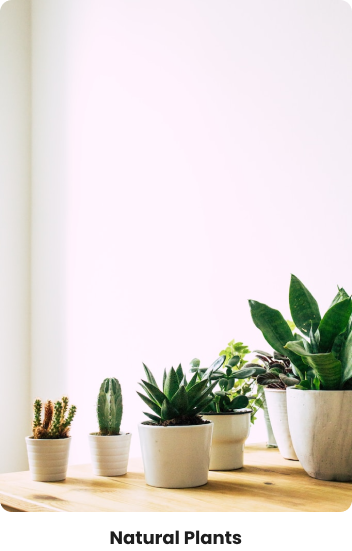
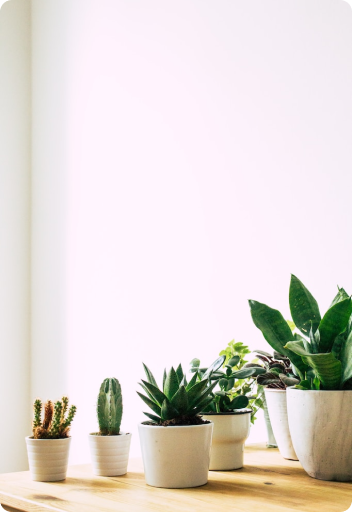
second commit

Changed region(s): [[0.0, 0.5, 1.0, 1.0]]

diff --git a/style.css b/style.css
@@ -336,7 +336,9 @@ p {
   color: var(--light-font);
 }
 
-#round-1,#round-2,#round-3 {
+#round-1,
+#round-2,
+#round-3 {
   background-color: var(--primary);
   width: 96px;
   height: 96px;
@@ -349,7 +351,6 @@ p {
   position: absolute;
   top: 28%;
   left: 28%;
-
 }
 .aboutUs-card #round-2::before {
   content: url(img/box-vector.svg);
@@ -362,4 +363,94 @@ p {
   position: absolute;
   top: 28%;
   left: 28%;
+}
+/* Categories */
+.categories {
+  display: flex;
+  flex-direction: column;
+  align-items: center;
+}
+.categories .title {
+  display: flex;
+  flex-direction: column;
+  align-items: center;
+  gap: 12px;
+}
+.categories .title p:first-child {
+  width: 182px;
+  height: 48px;
+  font-family: "Poppins";
+  font-weight: 700;
+  font-size: 32px;
+  color: var(--dark);
+}
+.categories .title p:last-child {
+  font-family: "Poppins";
+  font-style: normal;
+  font-weight: 500;
+  font-size: 18px;
+  line-height: 27px;
+  color: var(--light-font);
+}
+.images {
+  margin-top: 96px;
+  height: 841px;
+  background-color: var(--primary);
+  width: 100vw;
+}
+.image-cards {
+  display: flex;
+  justify-content: center;
+  gap: 96px;
+  padding-top: 48px;
+}
+.image-card {
+  display: flex;
+  flex-direction: column;
+  gap: 12px;
+}
+.image-card p {
+  font-family: "Poppins";
+  font-weight: 700;
+  font-size: 18px;
+  color: var(--dark);
+  text-align: center;
+}
+.categories .description {
+  font-family: "Poppins";
+  font-weight: 500;
+  font-size: 18px;
+  text-align: center;
+  color: var(--light-font);
+  padding-top: 12px;
+  padding-bottom: 24px;
+  width: 352px;
+  margin: 0 auto;
+}
+.categories .btn.white {
+  display: flex;
+  margin: 0 auto;
+  background: #ffffff;
+  border-radius: 8px;
+  width: 65px;
+  height: 27px;
+  font-family: "Poppins";
+  font-weight: 500;
+  font-size: 18px;
+  line-height: 27px;
+  color: var(--dark);
+  width: 147px;
+  height: 51px;
+  gap: 10px;
+}
+.categories .btn.white::after {
+  content: url(img/ArrowRight.svg);
+  transform: translateY(3px);
+}
+
+.images .image-cards .image-card:first-child {
+  transform: translateY(-96px);
+}
+.images .image-cards .image-card:last-child {
+  transform: translateY(-96px);
 }

diff --git a/index.html b/index.html
@@ -120,6 +120,32 @@
             </div>
         </section>
     </div>
+    <div class="wrapper">
+        <section class="categories">
+            <div class="title">
+                <p>Categories</p>
+                <p>Find what you are looking for</p>
+            </div>
+                <div class="images">
+                    <div class="image-cards">
+                        <div class="image-card">
+                            <img src="img/categorie-plant-1.png" alt="not found">
+                            <p>Natural Plants</p>
+                        </div>
+                        <div class="image-card">
+                            <img src="img/categorie-plant-2.png" alt="not found">
+                            <p>Plant Accessories</p>
+                        </div>
+                        <div class="image-card">
+                            <img src="img/categorie-plant-3.png" alt="not found">
+                            <p>Artificial Plants</p>
+                        </div>
+                    </div>
+                <p class="description">Horem ipsum dolor sit amet, consectetur adipiscing elit. </p>
+                <a href="#" class="btn white">Explore</a>
+            </div>
+        </section>
+    </div>
     <script src="app.js"></script>
   </body>
 </html>
